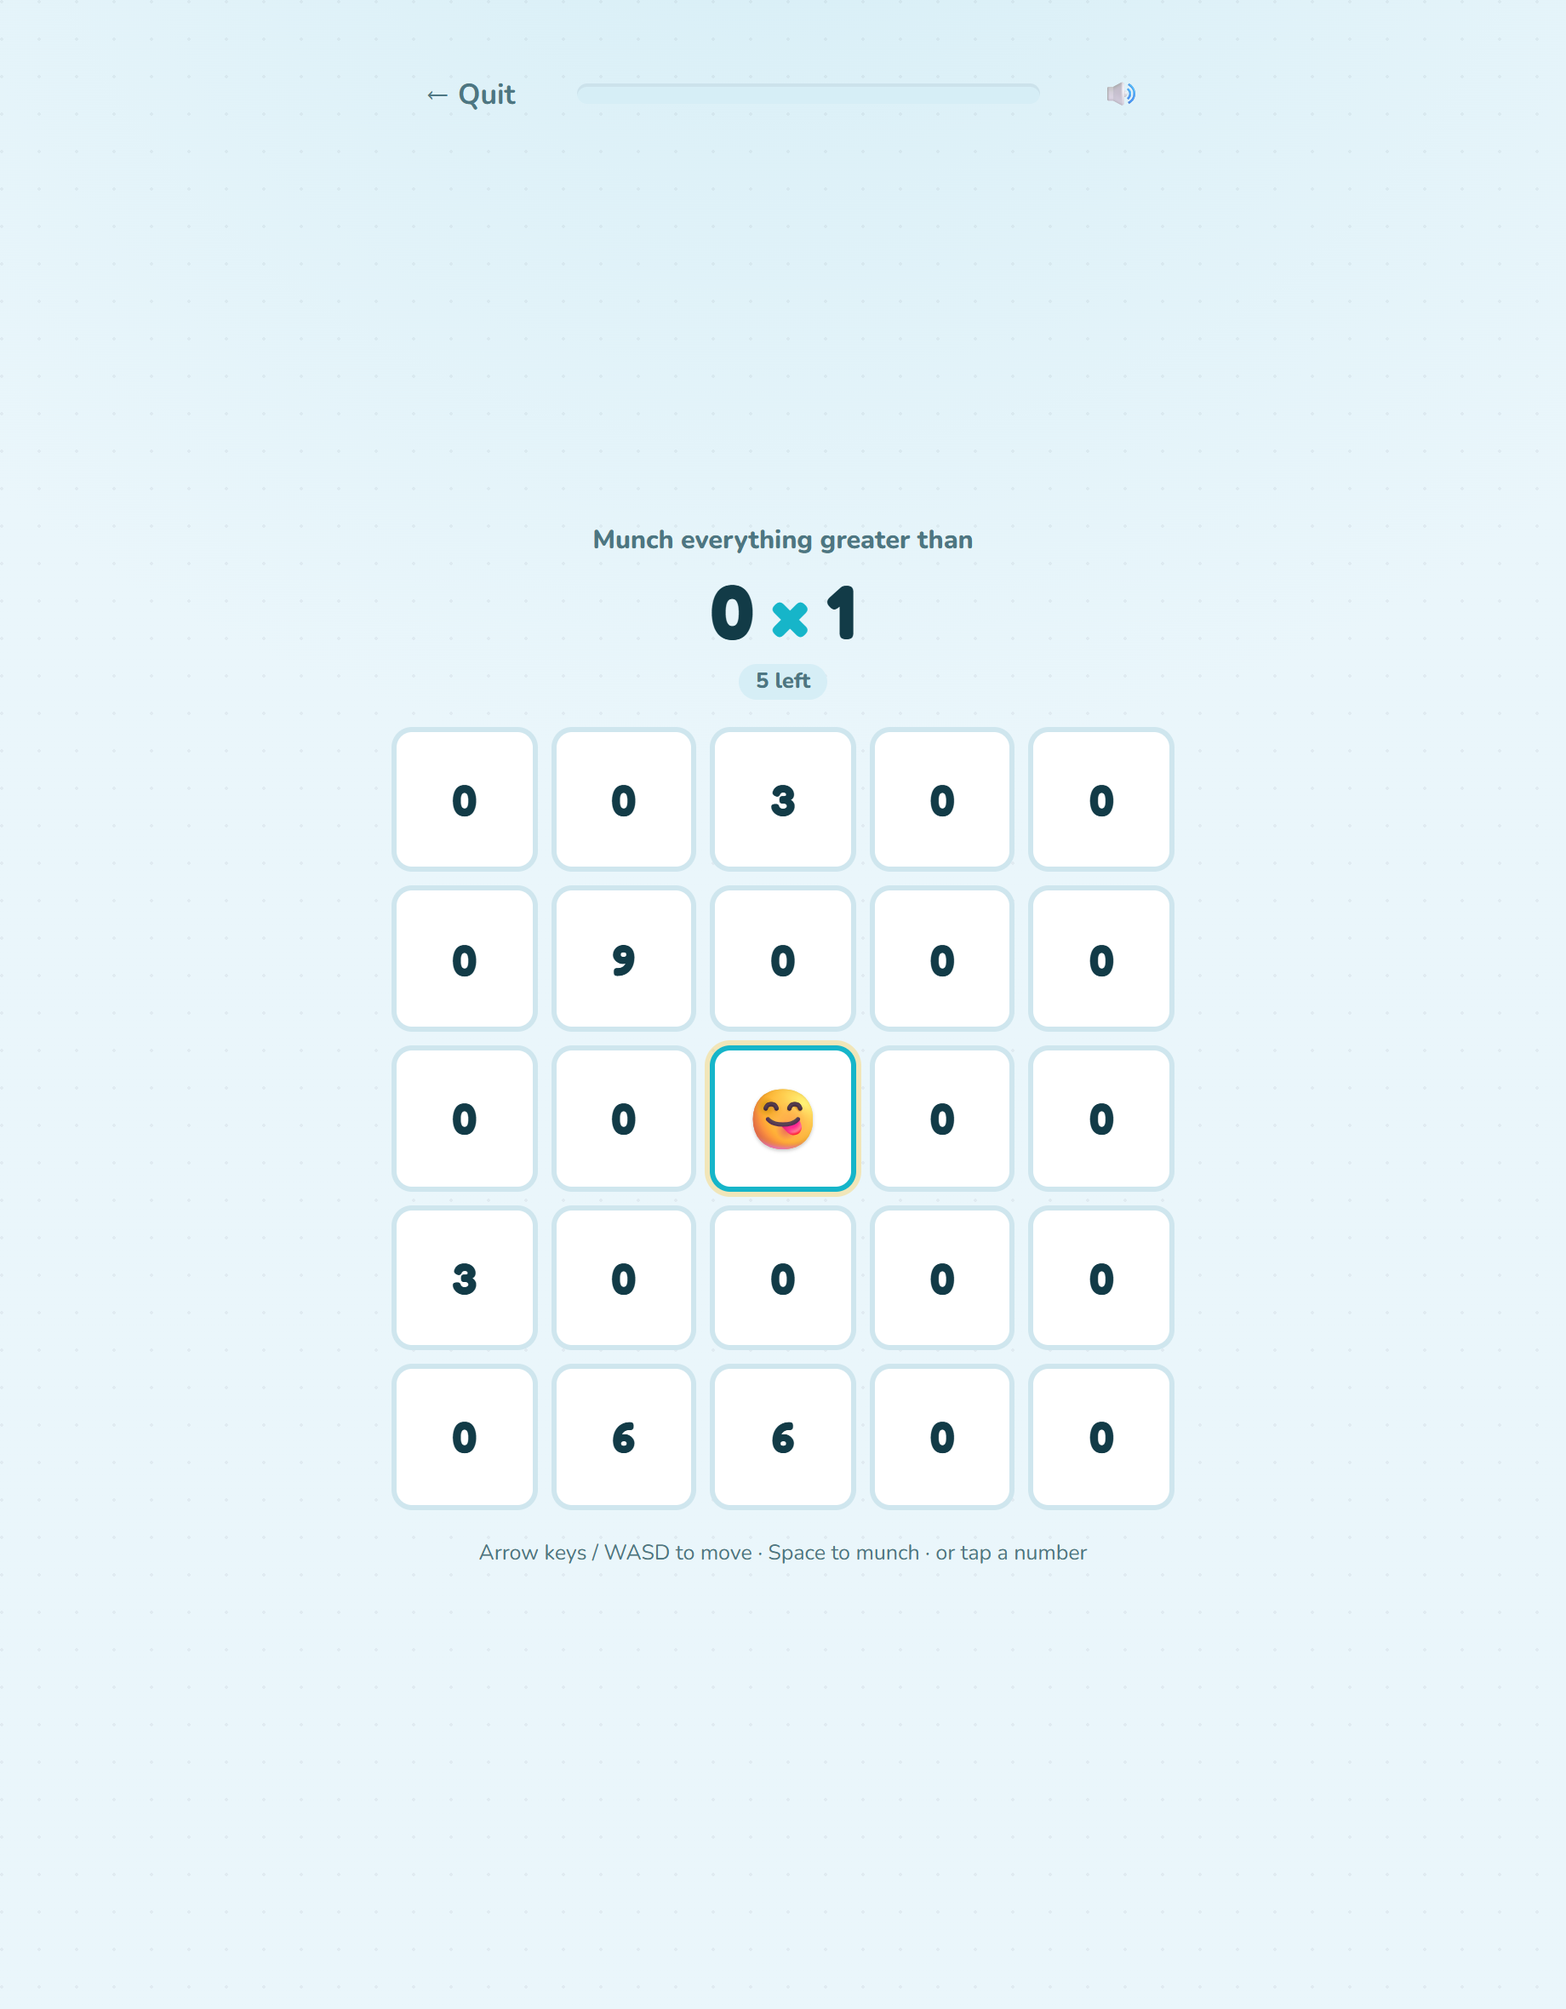
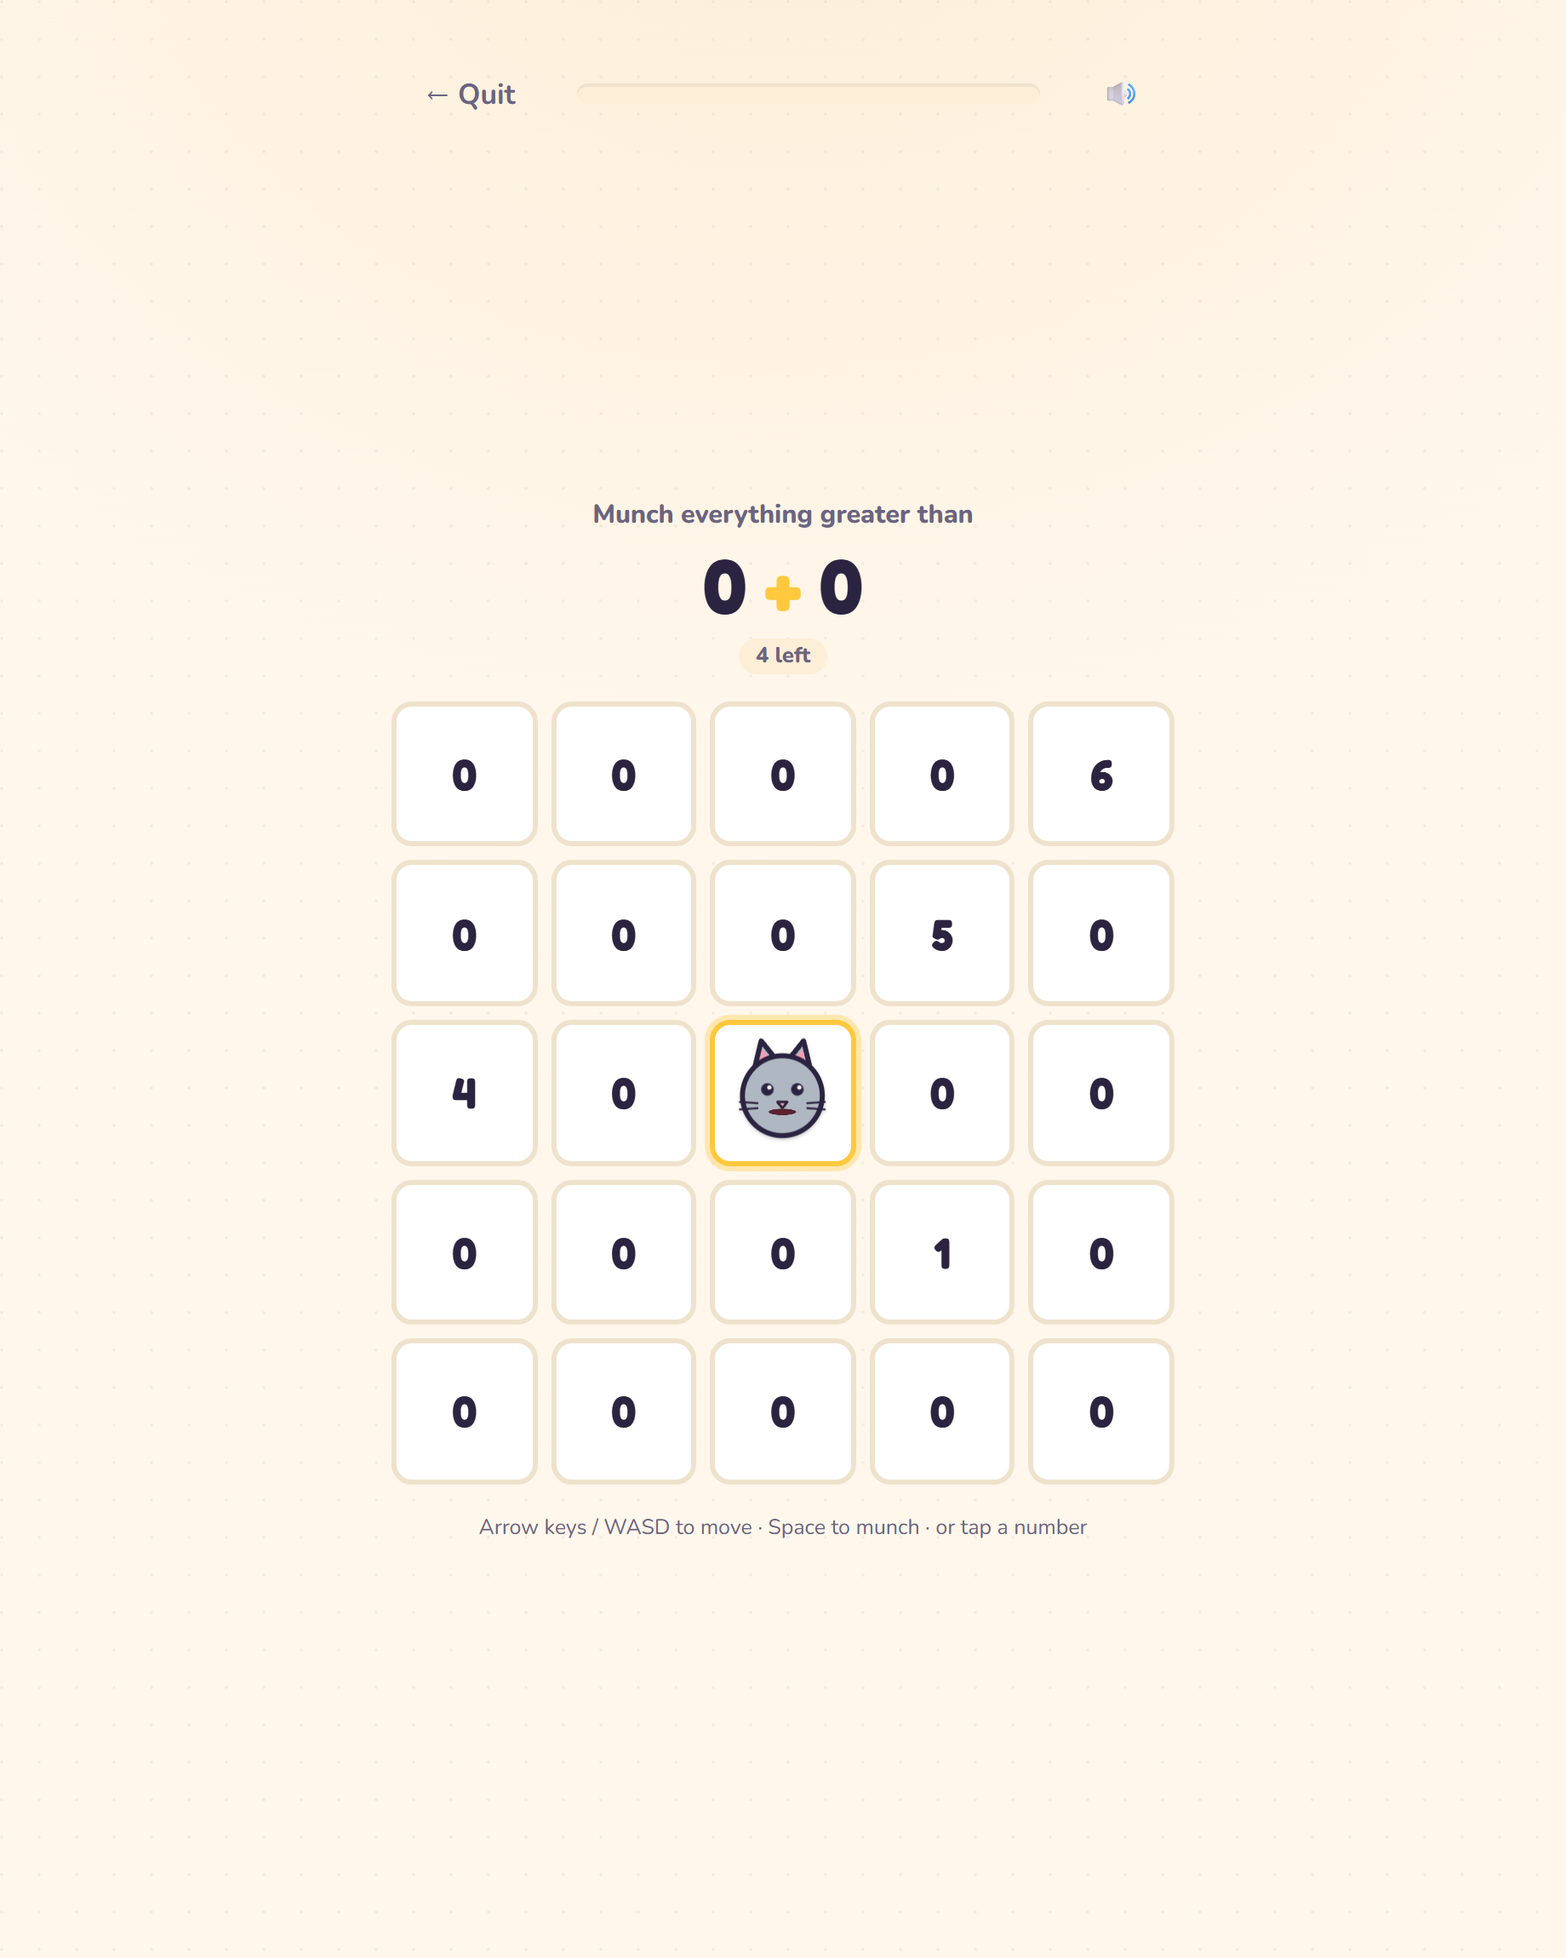
Wire munchers + celebration effects into the board and shop
- MunchBoard renders the equipped animal on the active cell with
  chomp-on-eat, happy-bounce on correct, bleh-recoil on wrong; a
  CelebrationBurst (confetti/sparkles/stars/fireworks) fires at the cell
  on a correct munch. PlayPage passes session.muncher + session.effect.
- Rewards shop gains Munchers (SVG previews) + Celebrations sections,
  with equip tracking across all four reward slots.
- Refreshed README screenshots to show the munchers.

Verified in-browser: 7 distinct animals render in the shop; the cat
munches + relocates on the board. 147 tests.

Changed region(s): [[0.0, 0.0, 1.0, 0.8026], [0.7435, 0.3704, 0.7745, 0.4322], [0.7435, 0.463, 0.7745, 0.4939]]

diff --git a/client/src/pages/ProfilesPage.tsx b/client/src/pages/ProfilesPage.tsx
@@ -3,9 +3,18 @@ import { useNavigate } from 'react-router-dom';
 import type { FactSet, GradeBand, Profile, ProfileSettings, RewardItem } from '@shared';
 import { api } from '../api';
 import { useAuth } from '../auth';
+import { Muncher } from '../components/Muncher';
 import { AVATARS, OP_LABEL, OP_SYMBOL } from '../ops';
 import { useTheme } from '../useTheme';
 import './ProfilesPage.css';
+
+/** Shop preview icon per celebration effect. */
+const EFFECT_ICON: Record<string, string> = {
+  confetti: '🎉',
+  sparkles: '✨',
+  stars: '🌟',
+  fireworks: '🎆',
+};
 
 export function ProfilesPage() {
   const { logout } = useAuth();
@@ -120,6 +129,8 @@ function RewardsModal({ profile, onClose }: { profile: Profile; onClose: () => v
   const [catalog, setCatalog] = useState<RewardItem[] | null>(null);
   const [equippedAvatar, setEquippedAvatar] = useState(profile.avatar);
   const [equippedTheme, setEquippedTheme] = useState(profile.theme);
+  const [equippedMuncher, setEquippedMuncher] = useState('cat');
+  const [equippedEffect, setEquippedEffect] = useState('confetti');
   const [busy, setBusy] = useState<string | null>(null);
 
   // Live-preview the equipped theme across the whole picker while open.
@@ -132,20 +143,31 @@ function RewardsModal({ profile, onClose }: { profile: Profile; onClose: () => v
       setCatalog(r.catalog);
       setEquippedAvatar(r.equippedAvatar);
       setEquippedTheme(r.equippedTheme);
+      setEquippedMuncher(r.equippedMuncher);
+      setEquippedEffect(r.equippedEffect);
     });
   }, [profile.id]);
+
+  const isEquipped = (item: RewardItem) =>
+    item.kind === 'avatar'
+      ? item.value === equippedAvatar
+      : item.kind === 'theme'
+        ? item.value === equippedTheme
+        : item.kind === 'muncher'
+          ? item.value === equippedMuncher
+          : item.value === equippedEffect;
 
   async function equip(item: RewardItem) {
     const r = await api.equipReward(profile.id, item.id);
     setEquippedAvatar(r.equippedAvatar);
     setEquippedTheme(r.equippedTheme);
+    setEquippedMuncher(r.equippedMuncher);
+    setEquippedEffect(r.equippedEffect);
   }
 
   async function act(item: RewardItem) {
     const isOwned = owned.has(item.id);
-    const equipped =
-      item.kind === 'avatar' ? item.value === equippedAvatar : item.value === equippedTheme;
-    if (equipped) return;
+    if (isEquipped(item)) return;
     setBusy(item.id);
     try {
       if (isOwned) {
@@ -161,40 +183,30 @@ function RewardsModal({ profile, onClose }: { profile: Profile; onClose: () => v
     }
   }
 
-  const avatars = (catalog ?? []).filter((i) => i.kind === 'avatar');
-  const themes = (catalog ?? []).filter((i) => i.kind === 'theme');
+  const byKind = (kind: RewardItem['kind']) => (catalog ?? []).filter((i) => i.kind === kind);
+  const section = (title: string, kind: RewardItem['kind']) => (
+    <RewardSection title={title}>
+      {byKind(kind).map((item) => (
+        <RewardTile
+          key={item.id}
+          item={item}
+          owned={owned.has(item.id)}
+          equipped={isEquipped(item)}
+          affordable={coins >= item.cost}
+          busy={busy === item.id}
+          onClick={() => act(item)}
+        />
+      ))}
+    </RewardSection>
+  );
 
   return (
     <Modal onClose={onClose} title={`${equippedAvatar} ${profile.displayName}'s rewards`}>
       <div className="coin-balance">⭐ {coins} coins</div>
-
-      <RewardSection title="Avatars">
-        {avatars.map((item) => (
-          <RewardTile
-            key={item.id}
-            item={item}
-            owned={owned.has(item.id)}
-            equipped={item.value === equippedAvatar}
-            affordable={coins >= item.cost}
-            busy={busy === item.id}
-            onClick={() => act(item)}
-          />
-        ))}
-      </RewardSection>
-
-      <RewardSection title="Themes">
-        {themes.map((item) => (
-          <RewardTile
-            key={item.id}
-            item={item}
-            owned={owned.has(item.id)}
-            equipped={item.value === equippedTheme}
-            affordable={coins >= item.cost}
-            busy={busy === item.id}
-            onClick={() => act(item)}
-          />
-        ))}
-      </RewardSection>
+      {section('Munchers', 'muncher')}
+      {section('Celebrations', 'effect')}
+      {section('Avatars', 'avatar')}
+      {section('Themes', 'theme')}
     </Modal>
   );
 }
@@ -232,9 +244,10 @@ function RewardTile({
       title={item.label}
     >
       <div className="reward-preview">
-        {item.kind === 'avatar' ? (
-          <span className="reward-emoji">{item.value}</span>
-        ) : (
+        {item.kind === 'avatar' && <span className="reward-emoji">{item.value}</span>}
+        {item.kind === 'muncher' && <Muncher animal={item.value} state="idle" size={44} />}
+        {item.kind === 'effect' && <span className="reward-emoji">{EFFECT_ICON[item.value] ?? '🎉'}</span>}
+        {item.kind === 'theme' && (
           <span className="reward-swatches">
             {(item.swatches ?? []).map((c, i) => (
               <span key={i} className="reward-swatch" style={{ background: c }} />

diff --git a/client/src/components/MunchBoard.tsx b/client/src/components/MunchBoard.tsx
@@ -1,6 +1,8 @@
 import { useCallback, useEffect, useMemo, useRef, useState } from 'react';
 import type { Fact, MunchBoard as Board, MunchRelation } from '@shared';
 import { OP_SYMBOL } from '../ops';
+import { CelebrationBurst } from './CelebrationBurst';
+import { Muncher, type MuncherState } from './Muncher';
 import './MunchBoard.css';
 
 const RELATION_PHRASE: Record<MunchRelation, string> = {
@@ -30,12 +32,16 @@ export interface RoundResult {
 export function MunchBoard({
   board,
   fact,
+  muncher,
+  effect,
   onMunch,
   onComplete,
   announce,
 }: {
   board: Board;
   fact: Fact;
+  muncher: string;
+  effect: string;
   onMunch: (correct: boolean) => void;
   onComplete: (r: RoundResult) => void;
   announce?: (msg: string) => void;
@@ -52,9 +58,23 @@ export function MunchBoard({
   const [pos, setPos] = useState(Math.floor((size * size) / 2));
   const [eaten, setEaten] = useState<Set<number>>(new Set());
   const [flash, setFlash] = useState<{ idx: number; ok: boolean } | null>(null);
+  const [muncherState, setMuncherState] = useState<MuncherState>('idle');
+  const [bursts, setBursts] = useState<{ id: number; idx: number }[]>([]);
 
   const posRef = useRef(pos);
   posRef.current = pos;
+  const burstId = useRef(0);
+  // Drive the muncher: chomp → (happy | bleh) → idle, cleaned up on unmount.
+  const stateTimers = useRef<number[]>([]);
+  useEffect(() => () => stateTimers.current.forEach((t) => clearTimeout(t)), []);
+  const reactMuncher = useCallback((correct: boolean) => {
+    stateTimers.current.forEach((t) => clearTimeout(t));
+    setMuncherState('chomp');
+    stateTimers.current = [
+      window.setTimeout(() => setMuncherState(correct ? 'happy' : 'bleh'), 300),
+      window.setTimeout(() => setMuncherState('idle'), correct ? 900 : 800),
+    ];
+  }, []);
   const startRef = useRef(performance.now());
   const firstCorrectRef = useRef<number | null>(null);
   const wrongRef = useRef(0);
@@ -83,8 +103,14 @@ export function MunchBoard({
           wrongRef.current += 1;
         }
         onMunch(isCorrect);
+        reactMuncher(isCorrect);
         setFlash({ idx, ok: isCorrect });
         window.setTimeout(() => setFlash((f) => (f && f.idx === idx ? null : f)), 350);
+        if (isCorrect) {
+          const id = ++burstId.current;
+          setBursts((b) => [...b, { id, idx }]);
+          window.setTimeout(() => setBursts((b) => b.filter((x) => x.id !== id)), 900);
+        }
 
         if ([...correctIdx].every((i) => next.has(i)) && !doneRef.current) {
           doneRef.current = true;
@@ -97,7 +123,7 @@ export function MunchBoard({
         return next;
       });
     },
-    [correctIdx, onMunch, onComplete],
+    [correctIdx, onMunch, onComplete, reactMuncher],
   );
 
   const move = useCallback(
@@ -185,7 +211,12 @@ export function MunchBoard({
               disabled={isEaten}
             >
               <span className="munch-num">{isEaten ? '' : v}</span>
-              {isHere && !isEaten && <span className="muncher" aria-hidden="true">😋</span>}
+              {isHere && (
+                <span className="muncher-slot" aria-hidden="true">
+                  <Muncher animal={muncher} state={muncherState} size="100%" />
+                </span>
+              )}
+              {bursts.some((b) => b.idx === i) && <CelebrationBurst variant={effect} />}
             </button>
           );
         })}

diff --git a/client/src/components/CelebrationBurst.css b/client/src/components/CelebrationBurst.css
@@ -1,0 +1,81 @@
+/* Celebration bursts — particles fly out from the center of the munched cell.
+   Each .burst-bit gets --dx/--dy (direction), --delay, --spin set inline. */
+.burst {
+  position: absolute;
+  inset: 0;
+  display: grid;
+  place-items: center;
+  pointer-events: none;
+  z-index: 5;
+}
+.burst-bit {
+  position: absolute;
+  animation: burst-fly 0.85s ease-out forwards;
+  animation-delay: var(--delay);
+  opacity: 0;
+}
+
+@keyframes burst-fly {
+  0% { transform: translate(0, 0) scale(0.3); opacity: 1; }
+  100% { transform: translate(var(--dx), var(--dy)) scale(1); opacity: 0; }
+}
+
+/* Confetti — little candy rectangles that tumble and fall. */
+.burst-confetti .burst-bit {
+  width: 7px;
+  height: 10px;
+  border-radius: 2px;
+  animation-name: burst-confetti;
+}
+.burst-confetti .burst-bit:nth-child(5n + 1) { background: var(--sun); }
+.burst-confetti .burst-bit:nth-child(5n + 2) { background: var(--add); }
+.burst-confetti .burst-bit:nth-child(5n + 3) { background: var(--mul); }
+.burst-confetti .burst-bit:nth-child(5n + 4) { background: var(--sub); }
+.burst-confetti .burst-bit:nth-child(5n + 5) { background: var(--div); }
+@keyframes burst-confetti {
+  0% { transform: translate(0, 0) rotate(0); opacity: 1; }
+  100% { transform: translate(var(--dx), calc(var(--dy) + 26px)) rotate(var(--spin)); opacity: 0; }
+}
+
+/* Sparkles — twinkling four-point stars. */
+.burst-sparkles .burst-bit {
+  font-size: 16px;
+  color: var(--sun);
+  text-shadow: 0 0 6px rgba(255, 200, 61, 0.8);
+  animation-name: burst-sparkle;
+}
+@keyframes burst-sparkle {
+  0% { transform: translate(0, 0) scale(0.2) rotate(0); opacity: 0; }
+  40% { opacity: 1; }
+  100% { transform: translate(var(--dx), var(--dy)) scale(1.1) rotate(var(--spin)); opacity: 0; }
+}
+
+/* Shooting stars — arc outward with a little tail of motion. */
+.burst-stars .burst-bit {
+  font-size: 17px;
+  color: var(--div);
+  animation-name: burst-star;
+}
+@keyframes burst-star {
+  0% { transform: translate(0, 0) scale(0.4); opacity: 1; }
+  70% { opacity: 1; }
+  100% { transform: translate(var(--dx), calc(var(--dy) - 14px)) scale(0.9); opacity: 0; }
+}
+
+/* Fireworks — a bright radial pop of dots. */
+.burst-fireworks .burst-bit {
+  width: 6px;
+  height: 6px;
+  border-radius: 50%;
+  background: var(--sun);
+  box-shadow: 0 0 8px currentColor;
+  color: var(--sun);
+  animation-name: burst-firework;
+}
+.burst-fireworks .burst-bit:nth-child(3n + 1) { background: var(--sub); color: var(--sub); }
+.burst-fireworks .burst-bit:nth-child(3n + 2) { background: var(--mul); color: var(--mul); }
+@keyframes burst-firework {
+  0% { transform: translate(0, 0) scale(1.4); opacity: 1; }
+  70% { opacity: 1; }
+  100% { transform: translate(var(--dx), var(--dy)) scale(0.4); opacity: 0; }
+}

diff --git a/client/src/components/CelebrationBurst.tsx b/client/src/components/CelebrationBurst.tsx
@@ -1,0 +1,32 @@
+import type { CSSProperties } from 'react';
+import './CelebrationBurst.css';
+
+/** A short, self-removing particle burst fired at a correct munch. The variant
+ *  is the kid's equipped celebration effect. Render with a unique `key` so each
+ *  burst animates fresh; the parent drops it after ~900ms. */
+export function CelebrationBurst({ variant }: { variant: string }) {
+  const count = variant === 'fireworks' ? 20 : 14;
+  const glyph = variant === 'sparkles' ? '✦' : variant === 'stars' ? '★' : '';
+
+  const bits = Array.from({ length: count }, (_, i) => {
+    const angle = (i / count) * Math.PI * 2 + (i % 2) * 0.3;
+    const dist = 26 + ((i * 13) % 26);
+    const style = {
+      '--dx': `${Math.cos(angle) * dist}px`,
+      '--dy': `${Math.sin(angle) * dist}px`,
+      '--delay': `${(i % 5) * 22}ms`,
+      '--spin': `${(i % 2 ? 1 : -1) * (180 + (i % 3) * 120)}deg`,
+    } as CSSProperties;
+    return (
+      <span key={i} className="burst-bit" style={style}>
+        {glyph}
+      </span>
+    );
+  });
+
+  return (
+    <div className={`burst burst-${variant}`} aria-hidden="true">
+      {bits}
+    </div>
+  );
+}

diff --git a/client/src/pages/PlayPage.tsx b/client/src/pages/PlayPage.tsx
@@ -248,6 +248,8 @@ export function PlayPage() {
             key={roundNonce}
             board={current.board}
             fact={current.fact}
+            muncher={session?.muncher ?? 'cat'}
+            effect={session?.effect ?? 'confetti'}
             onMunch={onMunch}
             onComplete={finishRound}
             announce={setAnnounce}

diff --git a/client/src/components/MunchBoard.css b/client/src/components/MunchBoard.css
@@ -107,3 +107,17 @@
   font-size: 0.78rem;
   text-align: center;
 }
+
+/* The animated animal sits on the current cell, above its number. */
+.muncher-slot {
+  position: absolute;
+  inset: 4%;
+  display: grid;
+  place-items: center;
+  pointer-events: none;
+  z-index: 2;
+}
+.muncher-slot .muncher {
+  width: 100%;
+  height: 100%;
+}

diff --git a/client/src/components/Muncher.tsx b/client/src/components/Muncher.tsx
@@ -170,7 +170,7 @@ export function Muncher({
 }: {
   animal: string;
   state?: MuncherState;
-  size?: number;
+  size?: number | string;
 }) {
   const spec = ANIMALS[animal] ?? ANIMALS.cat;
   return (

diff --git a/TODO.md b/TODO.md
@@ -35,6 +35,13 @@ This is a backlog, not a commitment — pick from it as needed.
       suggestion banner, an accuracy bar chart + speed sparkline, then the grid.
       Cross-operation suggestions (e.g. start subtraction) are intentionally
       out of scope for v1.
+- [x] **Unlockable munchers + celebration effects** — the board character is now
+      a chosen animal (7 illustrated SVG munchers with idle/chomp/happy/bleh
+      animations; cat + dog free, fox/frog/bunny/panda/dragon premium), and the
+      correct-answer burst is a chosen effect (confetti free, sparkles/stars/
+      fireworks premium). Both are coin-spent reward kinds (additive
+      `profile_muncher` / `profile_effect` tables) equipped from the shop and
+      carried on the session to the board.
 - [x] **Unlockable avatars / themes** (roadmap v1.1) — reward points spend.
       Coins accrue on session completion (credited once, idempotent); a kid-facing
       Rewards shop on the profile picker spends them to unlock avatars + palette
